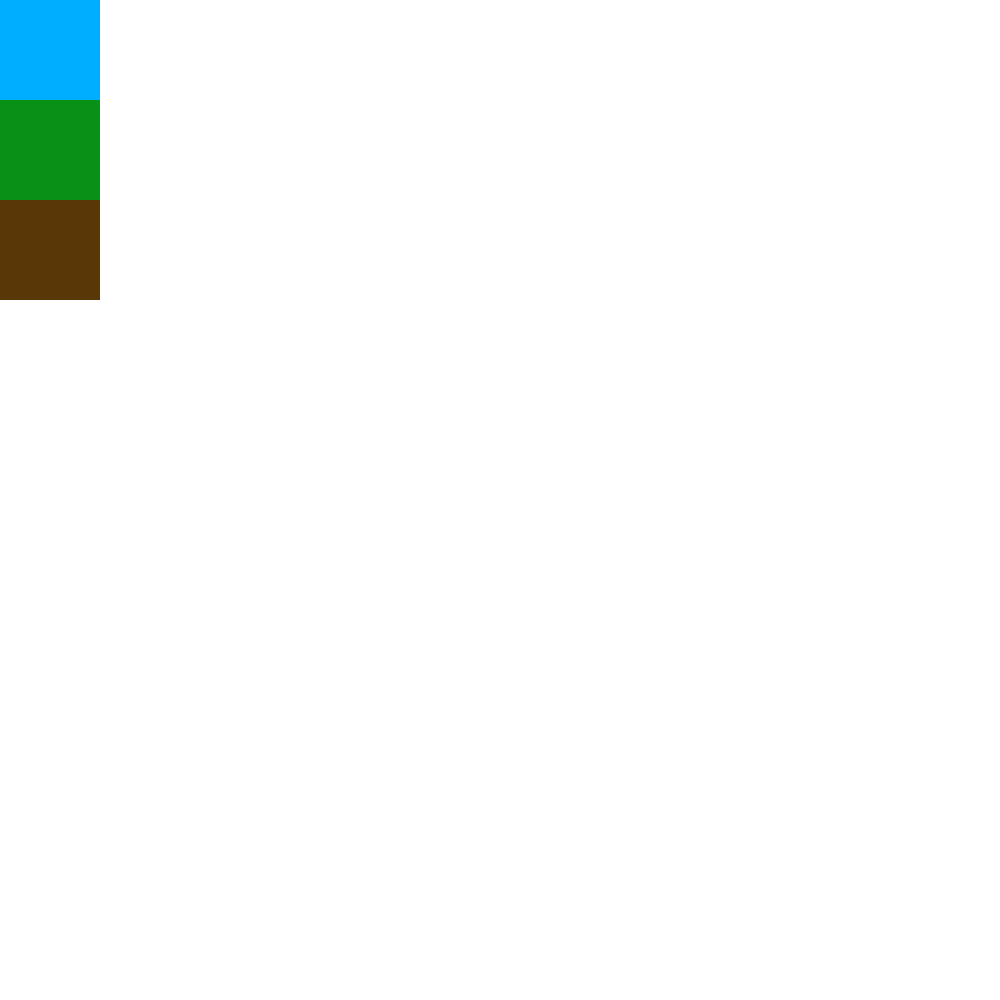
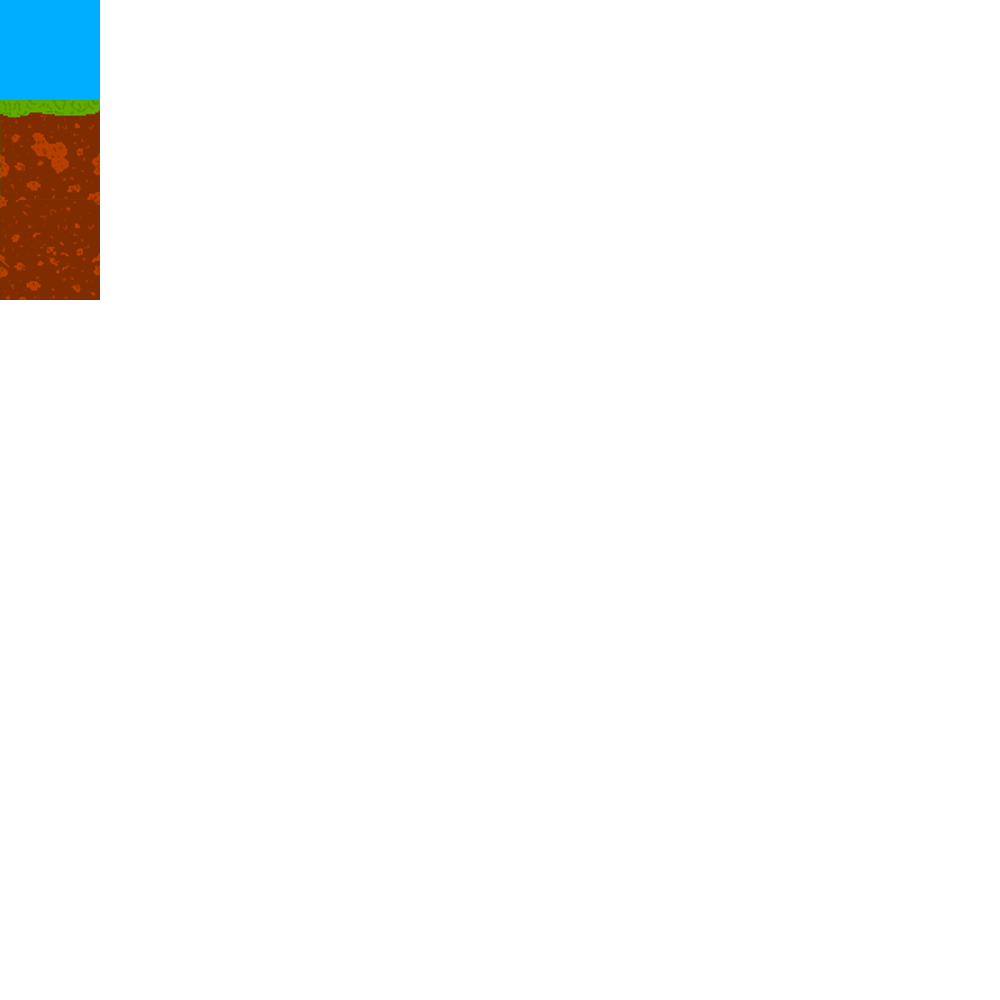
Updated graphics

Changed region(s): [[0.0, 0.093, 0.124, 0.31]]

diff --git a/core/src/Entities/Player.java b/core/src/Entities/Player.java
@@ -4,6 +4,8 @@ import box2dLight.ConeLight;
 import box2dLight.PointLight;
 import box2dLight.RayHandler;
 
+import org.pccs.sandbox.Utils;
+
 import com.badlogic.gdx.graphics.Color;
 import com.badlogic.gdx.graphics.Texture;
 import com.badlogic.gdx.graphics.g2d.Sprite;
@@ -31,7 +33,7 @@ public class Player extends Sprite{
     	bodyDef.position.set(this.getX()+this.getWidth()/2, this.getY()+this.getHeight()/2);
     	body = world.createBody(bodyDef);
     	CircleShape circle = new CircleShape();
-    	circle.setRadius(this.getWidth()/2);
+    	circle.setRadius(this.getWidth()/2/Utils.SCALE_FACTOR);
     	FixtureDef fixtureDef = new FixtureDef();
     	fixtureDef.shape = circle;
     	fixtureDef.density = 0.5f;
@@ -83,6 +85,10 @@ public class Player extends Sprite{
     public void updatepos(){
     	this.setPosition(body.getTransform().getPosition().x-this.getWidth()/2, body.getTransform().getPosition().y-this.getHeight()/2);
     	body.setTransform(body.getTransform().getPosition(), (float) Math.toRadians(this.getRotation()+90));
+    }
+    
+    public void jump() {
+    	body.applyForceToCenter(0, 1000000000, true);
     }
 
     public Texture getTexture(){

diff --git a/core/src/org/pccs/sandbox/Screens/JumperScreen.java b/core/src/org/pccs/sandbox/Screens/JumperScreen.java
@@ -2,6 +2,8 @@ package org.pccs.sandbox.Screens;
 
 import java.util.Iterator;
 
+import org.pccs.sandbox.Utils;
+
 import com.badlogic.gdx.Gdx;
 import com.badlogic.gdx.Input;
 import com.badlogic.gdx.Input.Keys;
@@ -55,8 +57,8 @@ public class JumperScreen implements Screen {
         camera.setToOrtho(false, width, height);
         camera.position.set(100, 100, 0);
         camera.update();
-
-        world = new World(new Vector2(0, -9.81f), true);
+        
+        world = new World(new Vector2(0, -90.81f), true);
         box2dDebugRenderer = new Box2DDebugRenderer();
         //tile map
         tiledMap = new TmxMapLoader().load("map1.tmx");
@@ -82,6 +84,8 @@ public class JumperScreen implements Screen {
         }
         if(Gdx.input.isKeyPressed(Input.Keys.D)){
         	player.translateandupdate(500, 0);
+        } if(Gdx.input.isKeyJustPressed(Input.Keys.SPACE)) {
+        	player.jump();
         }
        
      

diff --git a/core/src/org/pccs/sandbox/Utils.java b/core/src/org/pccs/sandbox/Utils.java
@@ -1,0 +1,5 @@
+package org.pccs.sandbox;
+
+public class Utils {
+	public static final float SCALE_FACTOR = 100.0f;
+}
